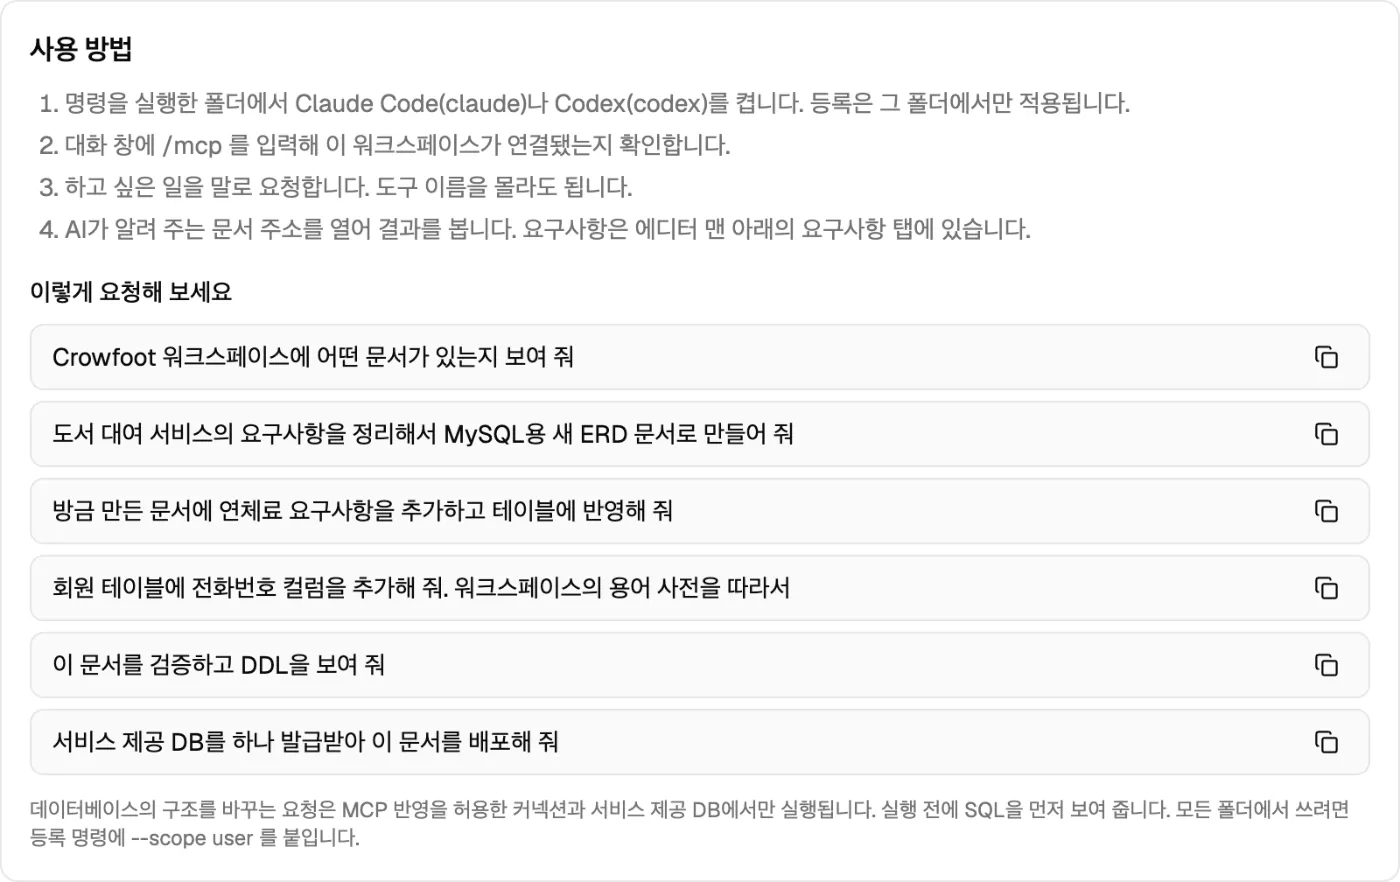
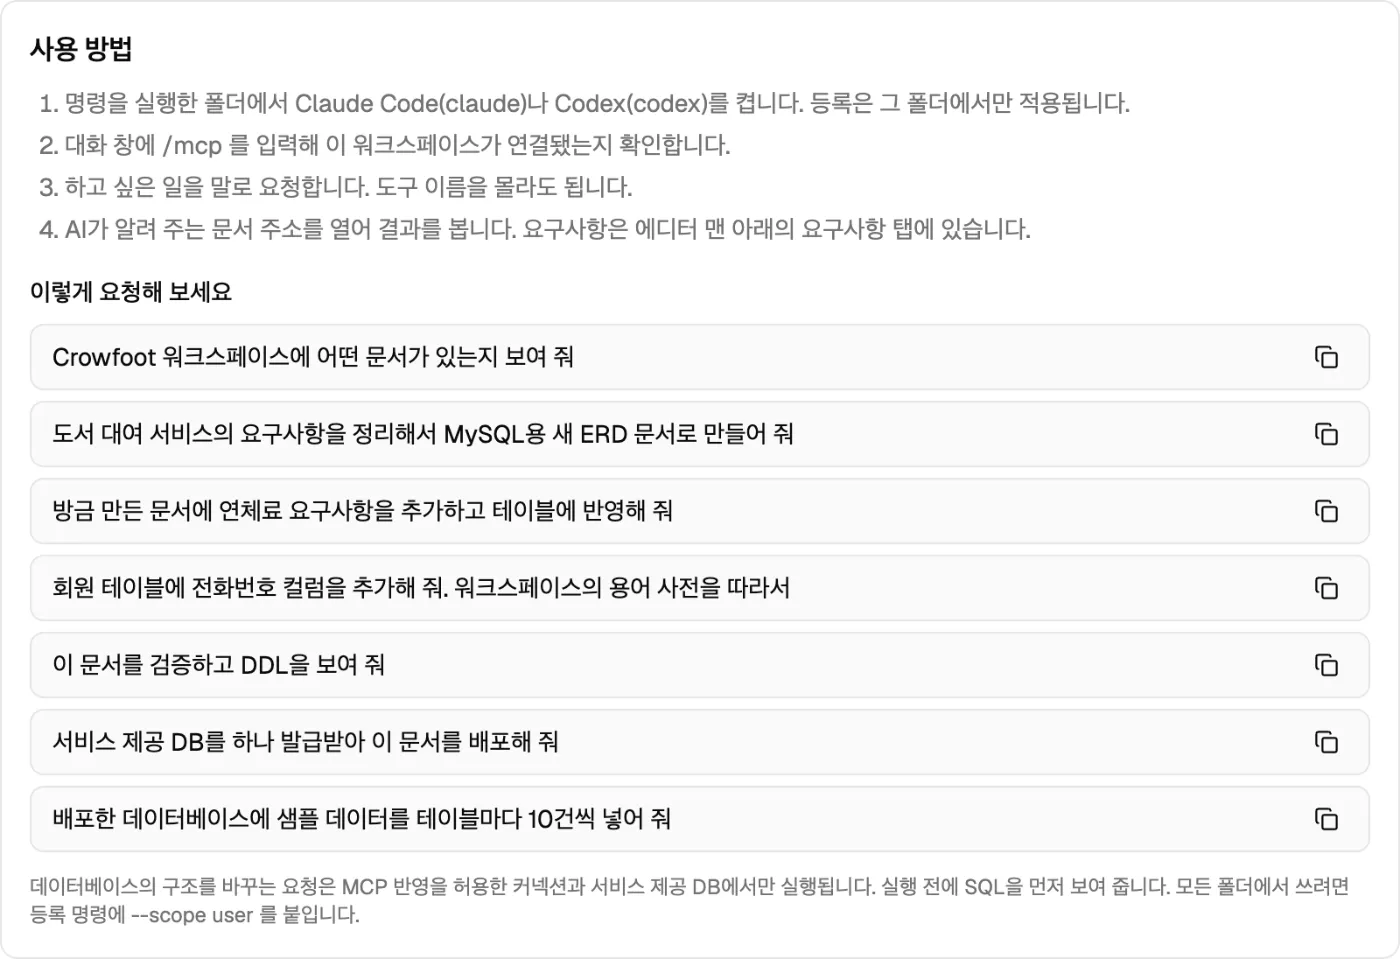
feat(mcp): 사용 방법에 샘플 데이터 예시, 사용 가이드에 샘플 데이터 설명 (v1.32)
docs: 10-mcp/00-mcp-server.md §4, 09-database-manager/00-data-browser.md §3.8

diff --git a/src/features/access-tokens/components/__tests__/mcp-tab.test.tsx b/src/features/access-tokens/components/__tests__/mcp-tab.test.tsx
@@ -87,7 +87,7 @@ describe('MCP 탭', () => {
     const usage = await screen.findByTestId('mcp-usage')
     expect(within(usage).getAllByRole('listitem').length).toBeGreaterThanOrEqual(10)
     const examples = within(usage).getAllByTestId('mcp-usage-example')
-    expect(examples).toHaveLength(6)
+    expect(examples).toHaveLength(7)
     await user.click(within(examples[1]).getByTestId('mcp-usage-copy'))
     expect(await navigator.clipboard.readText()).toBe('도서 대여 서비스의 요구사항을 정리해서 MySQL용 새 ERD 문서로 만들어 줘')
   })

diff --git a/src/features/access-tokens/components/mcp-tab.tsx b/src/features/access-tokens/components/mcp-tab.tsx
@@ -45,7 +45,7 @@ import { cn } from 'cn'
 
 /** 사용 방법의 단계와 예시 요청 — 문구는 번역 파일에 있다 */
 const USAGE_STEPS = ['run', 'check', 'ask', 'open'] as const
-const USAGE_EXAMPLES = ['list', 'create', 'requirement', 'modify', 'ddl', 'deploy'] as const
+const USAGE_EXAMPLES = ['list', 'create', 'requirement', 'modify', 'ddl', 'deploy', 'sample'] as const
 
 interface McpTabProps {
   workspaceId: string

diff --git a/src/content/guide/en.md b/src/content/guide/en.md
@@ -936,6 +936,7 @@ Start Claude Code or Codex in the folder where you registered, and ask for what 
 | Validation and SQL | Gets the design validation result and the SQL script |
 | Import SQL | Creates a new document from a CREATE TABLE script |
 | Apply to a database | Issues a managed database and deploys a document or applies only what changed (section 20.4) |
+| Sample data | Creates sample data that fits the table structure and puts it into the deployed database (section 20.4) |
 
 * Every change Claude makes is saved as a version. If you do not like it, restore an earlier version (section 14).
 * Claude cannot delete documents. Before deleting a table or column, it shows what will be removed.
@@ -978,6 +979,7 @@ For Claude to change the structure of a database, the connection must allow it.
 * Turn on **{{connection.dialog.mcpApply}}** when adding or editing a connection. It is off by default, and connections with it on are marked in the list.
 * Managed databases allow it from the start.
 * Claude shows the SQL first and runs only the plan you confirmed. If the document or the database changed after the plan was shown, it does not run and plans again.
+* Sample data is first inserted and rolled back to check for constraint violations, and only the data you confirmed is actually inserted. It only inserts; it does not update or delete. One request can hold up to 20 tables and 1,000 rows.
 * For a connection that does not allow it, Claude only shows the SQL. Run it yourself from the editor's deploy (section 10.3) or migration DDL (section 14.3).
 
 ## 21. Frequently asked questions

diff --git a/src/content/guide/zh.md b/src/content/guide/zh.md
@@ -936,6 +936,7 @@ Crowfoot 的界面大致分为三种。
 | 校验和 SQL | 获取设计校验结果和 SQL 脚本 |
 | 导入 SQL | 用 CREATE TABLE 脚本创建新文档 |
 | 应用到数据库 | 签发托管数据库，部署文档或只应用变更部分（见第 20.4 节） |
+| 示例数据 | 生成符合表结构的示例数据，并放入已部署的数据库（见第 20.4 节） |
 
 * Claude 每次修改都会留下版本。如果不满意，可以恢复到以前的版本（见第 14 节）。
 * Claude 不能删除文档。删除表或列之前，会先显示将被删除的内容。
@@ -978,6 +979,7 @@ Crowfoot 的界面大致分为三种。
 * 添加或编辑连接时开启 **{{connection.dialog.mcpApply}}**。默认关闭，开启的连接会在列表中带有标记。
 * 托管数据库从一开始就允许。
 * Claude 会先显示要执行的 SQL，只执行已确认的计划。如果查看计划后文档或数据库发生了变化，则不执行并重新制定计划。
+* 示例数据会先试着插入再回滚，以检查是否违反约束，只有确认过的数据才会真正插入。只插入，不修改也不删除。每次最多 20 个表、1,000 行。
 * 对未允许的连接，Claude 只显示要执行的 SQL。请在编辑器的部署（见第 10.3 节）或迁移 DDL（见第 14.3 节）中自行执行。
 
 ## 21. 常见问题
